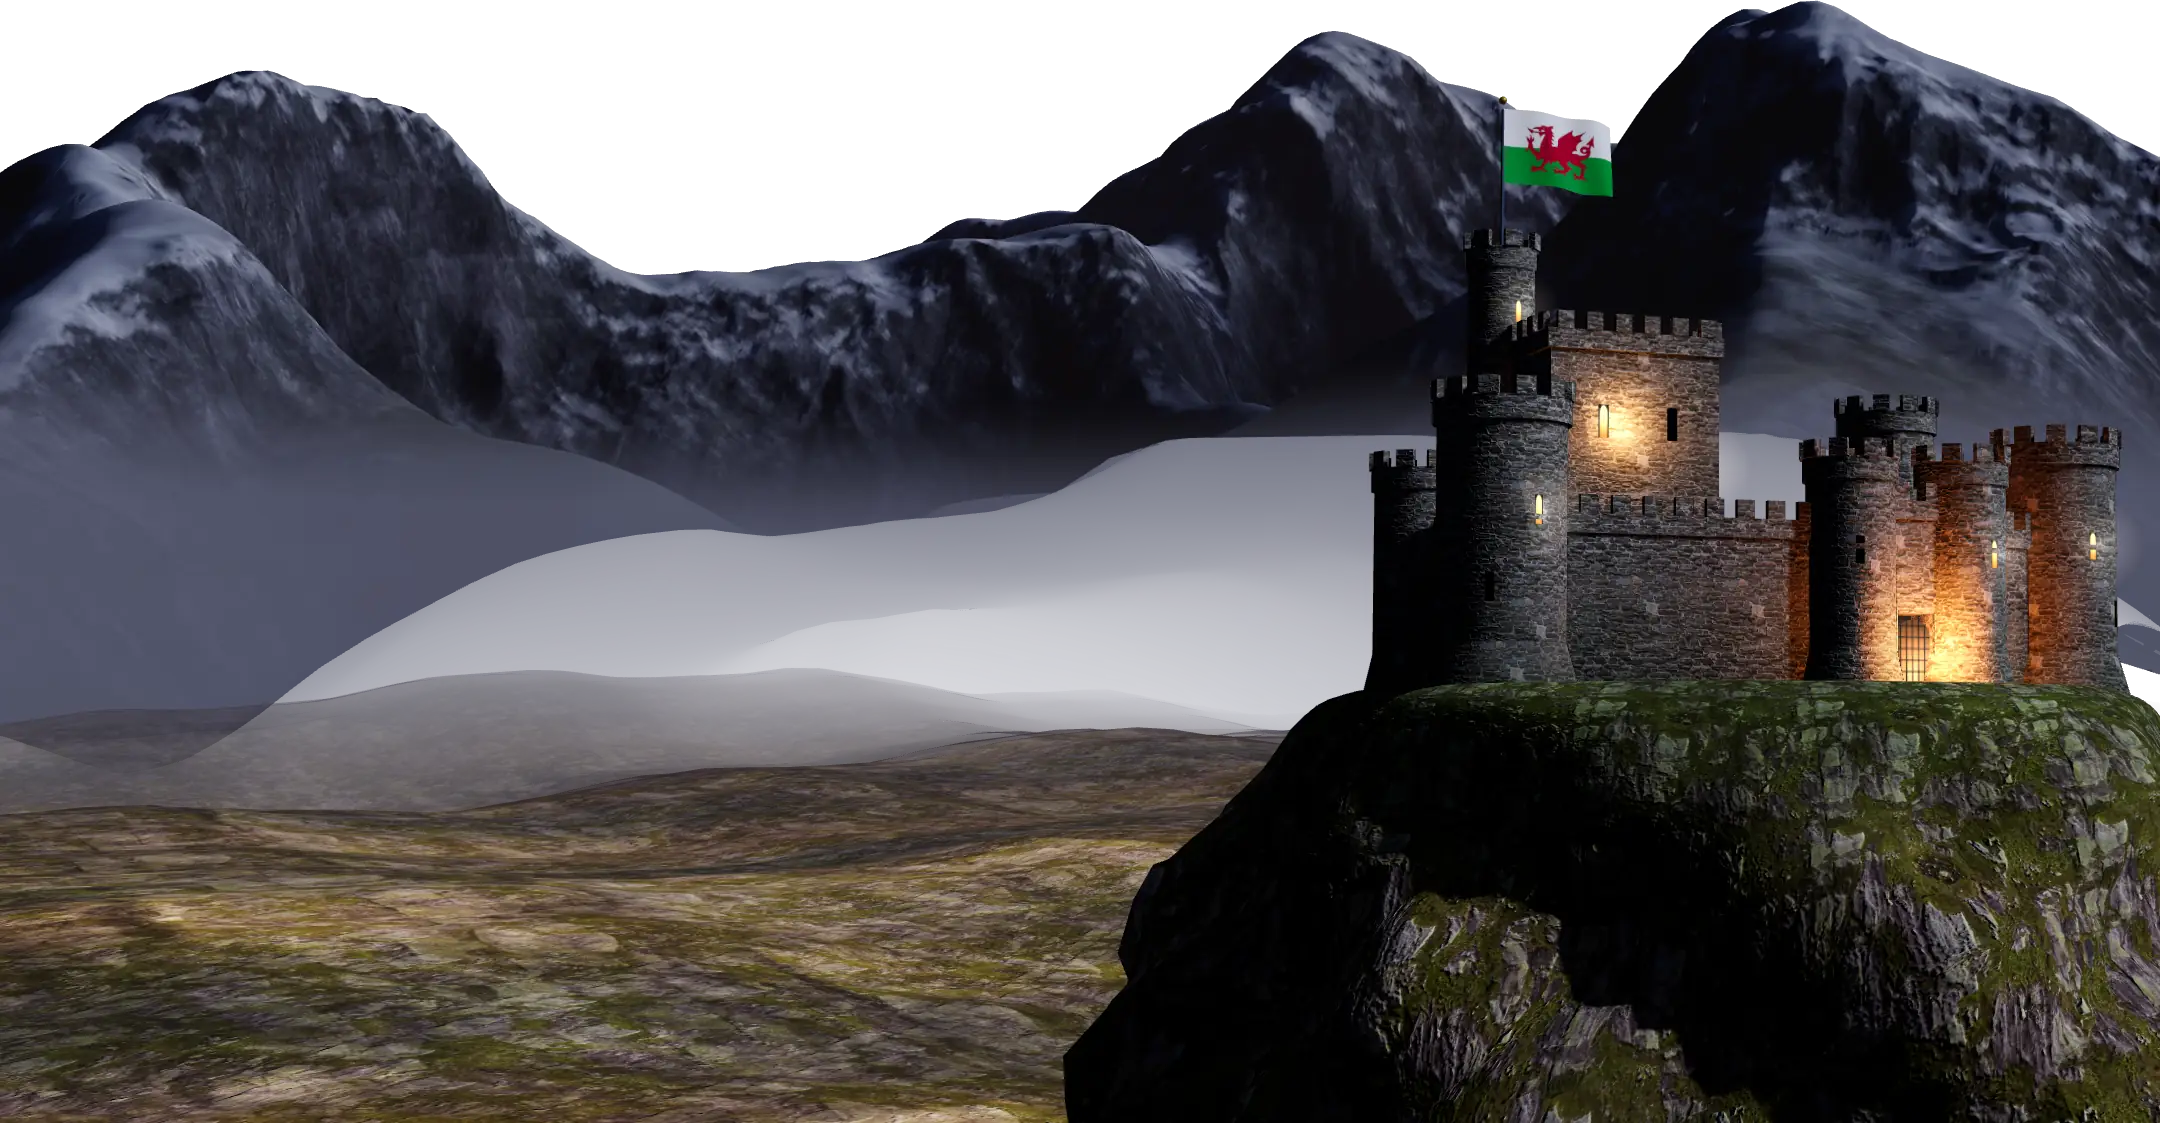
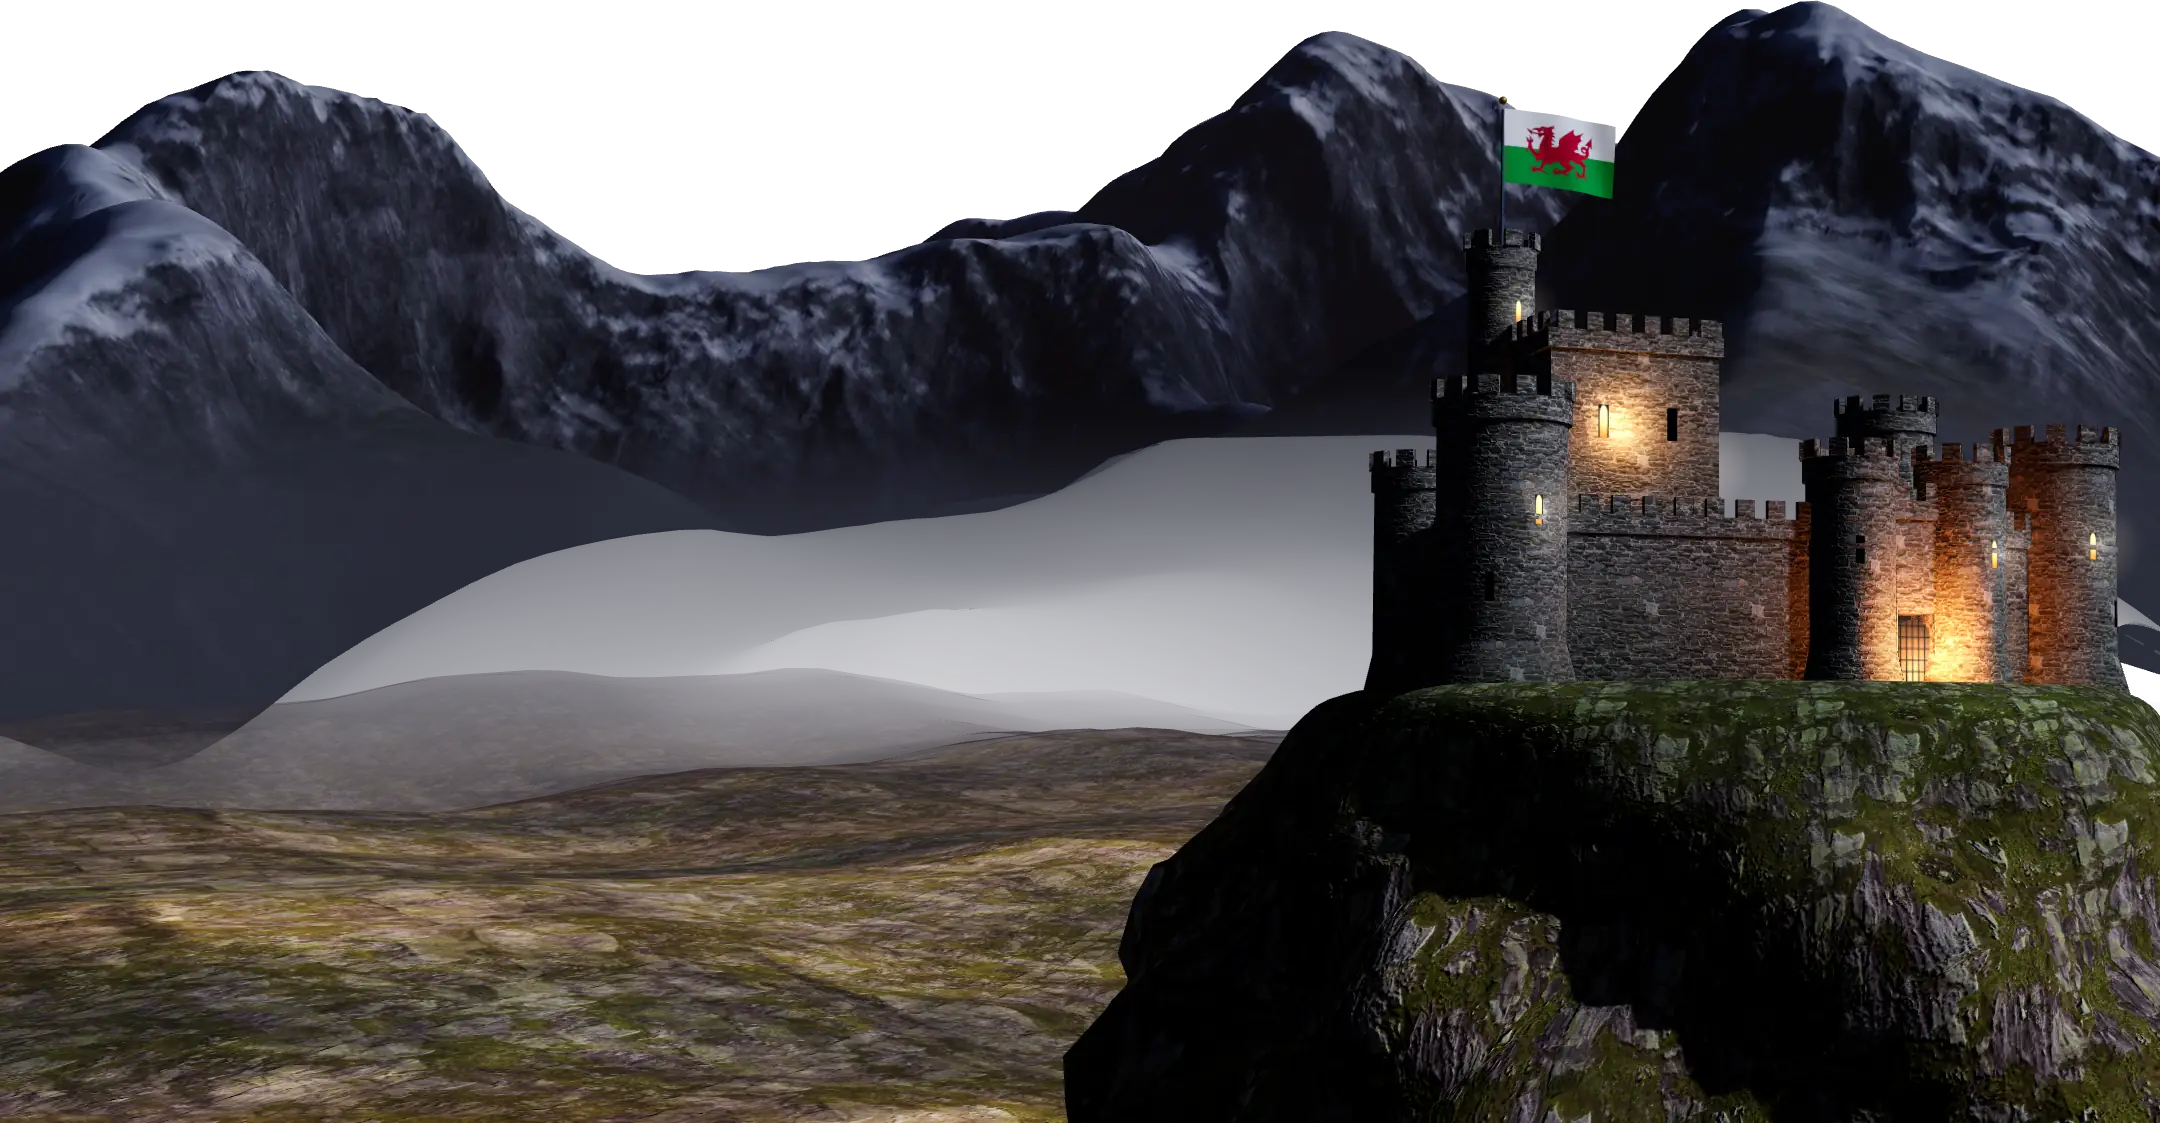
Hero: dark valley mist at night, so no flat grey band behind the castle
The light lilac-grey valley mist showed as a big flat grey sheet between the
mountains and the moor at night. It is now dark slate at night and a soft blue
haze by day. Still pictures for slow connections and old phones made again,
since the mountain feet carry the mist colour.

Claude-Session: https://claude.ai/code/session_01HQpyg8rLknSR8Q8VFDuTGp

Changed region(s): [[0.0, 0.3428, 0.6824, 0.6545], [0.7755, 0.3117, 1.0, 0.6233], [0.7134, 0.0935, 0.7444, 0.187]]

diff --git a/src/app.js b/src/app.js
@@ -144,8 +144,9 @@
     /* the opening is staged: sky and title first, then the words, then the land fades in (never before 1.2 s, so it does not arrive under a half-drawn title), then the dragon flies in */
     var L3 = window.HCL3 && HCL3.ready && performance.now() > 1200 && FONTS, noLand = L3 || window.HCL3_WANT || (SLOW && !STILL_IMG.failed), STILLP = SLOW && STILL_IMG.land;
     if (L3 || STILLP) {
-      /* the valley mist the mountains rise out of, which also hides the stars below the skyline */
-      var vm = cx.createLinearGradient(0, eb - eh * 0.7, 0, H), mistC = mixHex(mixHex(SKY.sky[2], SKY.sky[1], 0.45), "#6f7896", 0.62), vc = hex(mistC).join(",");
+      /* the valley mist the mountains rise out of, which also hides the stars below the skyline. It is dark at night and a soft blue
+         haze by day: a light grey mist read as a flat grey sheet behind the castle at night (Ifan, 13 Nov 2026), so keep it dark. */
+      var vm = cx.createLinearGradient(0, eb - eh * 0.7, 0, H), mistC = mixHex(mixHex(SKY.sky[2], SKY.sky[1], 0.45), mixHex("#262b3d", "#56607c", SKY.sun), 0.7), vc = hex(mistC).join(",");
       vm.addColorStop(0, "rgba(" + vc + ",0)"); vm.addColorStop(0.34, "rgba(" + vc + ",.9)"); vm.addColorStop(0.55, "rgba(" + vc + ",1)"); vm.addColorStop(1, SKY.sky[3]); cx.fillStyle = vm; cx.fillRect(0, eb - eh * 0.7, W, H);
       if (!L3) drawStillLand(stacked); else {
         if (!FLAG) FLAG = flagArt(); HCL3.frame({ W: W, H: H, sumX: sumX - ew * 0.13, sumY: sumY + ew * 0.15, ppm: ew / 2000, ground: stacked ? { x: W * 0.7, y: eb - eh * 0.07 - sy * 0.04, ppm: Math.min(W * 0.0095, eh * 0.019) } : { x: Math.min(W * 0.885, W - H * 0.3) - mouse * 9, y: H * 0.7 - sy * 0.1, ppm: H * 0.0098 }, castle: true, t: t, sun: SKY.sun, fog: mixHex(SKY.sky[2], SKY.sky[1], 0.45), mist: mistC, flag: FLAG, flagV: FLAGV });

diff --git a/SKILLS.md b/SKILLS.md
@@ -461,7 +461,7 @@ The dragon that flies across the opening screen is a real 3D model with a skelet
 
 Behind the dragon, the mountains, the moor and the castle are real 3D too, drawn on a second see-through canvas (`#land3d`) between the painted sky and the dragon. The code is `tools/land3d.src.js`.
 
-- **The mountains are Yr Wyddfa and its horseshoe, from real height data**, seen from the Capel Curig side. `tools/eryri_heights.py` downloads the height tiles; `tools/bake_eryri.py` turns them into three files in `src/static/`: `eryri-h.png` (heights), `eryri-c.webp` (colour: grass, scree, rock, snow) and `eryri-n.webp` (fine relief for the light). The survey data is smooth, so the script sharpens it and adds crag detail on steep, high ground, and heights are drawn 1.3 times taller. The feet of the mountains are tinted to the colour of the valley mist, so that the range rises out of it (the mist is a cool grey painted on the 2D canvas, and its colour is passed to the 3D code as `mist`). Never make ground see-through or cut it away: the red glow of the sky then shows through the hole as a red blob. The one hill that stood too close to the eye is levelled into the valley floor in `buildLand` instead.
+- **The mountains are Yr Wyddfa and its horseshoe, from real height data**, seen from the Capel Curig side. `tools/eryri_heights.py` downloads the height tiles; `tools/bake_eryri.py` turns them into three files in `src/static/`: `eryri-h.png` (heights), `eryri-c.webp` (colour: grass, scree, rock, snow) and `eryri-n.webp` (fine relief for the light). The survey data is smooth, so the script sharpens it and adds crag detail on steep, high ground, and heights are drawn 1.3 times taller. The feet of the mountains are tinted to the colour of the valley mist, so that the range rises out of it (the mist is painted on the 2D canvas, and its colour is passed to the 3D code as `mist`). Keep the mist dark at night: a light grey mist showed as a big flat grey sheet behind the castle (Ifan, 13 November 2026), so `mistC` in `draw()` mixes toward dark slate at night and a soft blue haze by day (`SKY.sun`). Extending the moor farther back does not hide it: the far moor takes the castle scene's fog colour, which is red at dusk. After changing the mist colour, make the still pictures (`hero-land-*.webp`) again, because the mountain feet carry it. Never make ground see-through or cut it away: the red glow of the sky then shows through the hole as a red blob. The one hill that stood too close to the eye is levelled into the valley floor in `buildLand` instead.
 - **What makes the mountains look real.** Four things, found by trial: (1) the moon lights them from the side (`moonL` in `tools/land3d.src.js`), and the bake casts real shadows from the ridges for that same direction (`LIGHT` in `tools/bake_eryri.py`): the two must always match, so change both together and bake again; (2) the bake carves gullies where water would gather (flow down the real heights, with noise added so streams wander: without the noise they run in ruled lines); (3) colour is laid by what the ground is (grass and heather low down, scree, bare rock where it is steep, snow where it can lie); (4) the crags are a real photograph of rock (`rock.webp`) laid on steep ground from the side by the shader. Laying a picture on cliffs from above smears it into streaks, and drawing regular ledges into the heights gives fingerprint lines, so do neither.
 - **The castle shows on every screen.** On phones and tall windows it stands on its crag at the foot of the mountains, in the strip below the buttons, with the moor in front, so they read as one scene (`ground` in `draw()` in `src/app.js`).
 - **Stars are soft glowing points, never plus signs.** `STAR` in `src/app.js` paints one glowing star in three tints (white, blue-white, warm) and the sky stamps it at varied sizes with a gentle twinkle.
